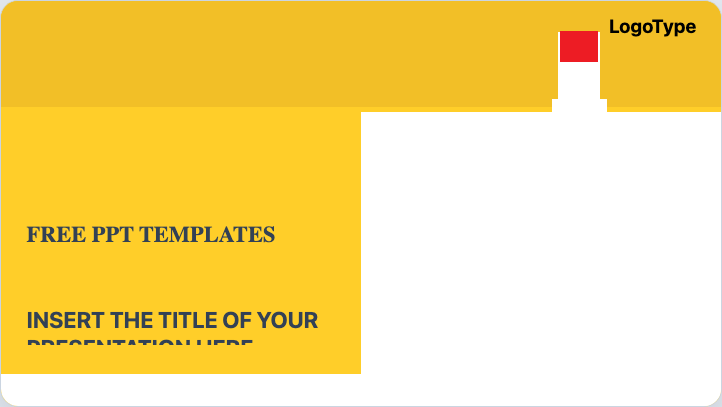
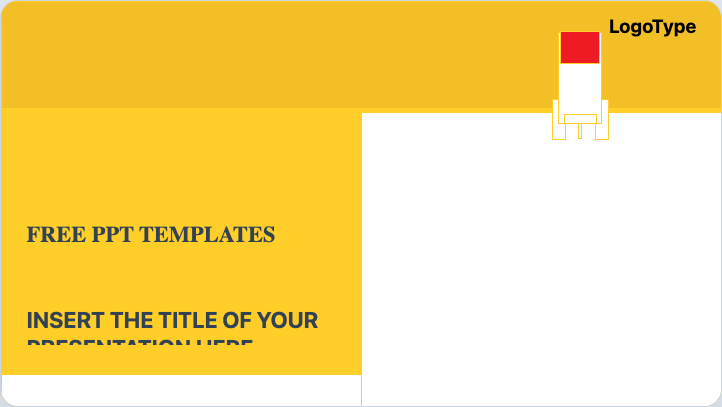
Fallback PPTX line styling to shape-style references for template geometry
Several of the remaining sample mismatches came from decorative arcs and border
geometry whose strokes are defined through PowerPoint style references rather
than explicit line fills on each shape. This stage teaches the parser to fall
back to `p:style` line and fill references when direct shape styling is absent,
then refreshes the screenshot evidence so the corpus report reflects the richer
template geometry that now survives into rendering.

Constraint: Template-driven decks often encode stroke and fill colors via style references, so the parser must preserve those signals before viewer heuristics can help
Constraint: Screenshot artifacts must be refreshed after parser styling changes to keep the corpus score report honest
Rejected: Ignore style-reference fallback and keep only direct shape styling | decorative geometry in the sample corpus would stay too sparse
Rejected: Treat the remaining low-score slides as acceptable without new scene data | they still point to missing template semantics, not just polish
Confidence: medium
Scope-risk: moderate
Reversibility: clean
Directive: Keep lifting template semantics into the PPTX parser when screenshot diffs point to missing geometry rather than bad layout heuristics
Tested: npx vitest run tests/pptx-shape-transform.test.ts tests/opc-and-parsers.test.ts; npm run typecheck; npm run lint; npm run build --workspace @ooxml/example-basic; npm run quality:ppt-sample-screenshots
[…]

Changed region(s): [[0.7618, 0.2654, 0.8532, 0.3538], [0.7618, 0.0885, 0.8532, 0.1769], [0.0, 0.914, 0.0305, 0.9435]]

diff --git a/packages/pptx/src/parser.ts b/packages/pptx/src/parser.ts
@@ -167,6 +167,7 @@ function parseShape(
   const placeholder = xmlChild<Record<string, unknown>>(nvPr, 'p:ph');
   const textNodes = findElementsByLocalName(shape, 't');
   const shapeProperties = xmlChild<Record<string, unknown>>(shape, 'p:spPr');
+  const style = xmlChild<Record<string, unknown>>(shape, 'p:style');
   const transform = applyTransformContext(parseTransform(shapeProperties), context);
 
   return {
@@ -177,8 +178,8 @@ function parseShape(
     placeholderIndex: xmlAttr(placeholder, 'idx') ?? undefined,
     shapeType: parseShapeType(shapeProperties),
     transform,
-    fill: parseFill(shapeProperties, relationships, theme),
-    line: parseLine(shapeProperties, theme),
+    fill: parseFill(shapeProperties, relationships, theme, style),
+    line: parseLine(shapeProperties, theme, style),
     textStyle: parseTextStyle(shape, theme)
   };
 }
@@ -191,6 +192,7 @@ function parsePicture(picture: Record<string, unknown>, relationships: ReturnTyp
   const relationshipId = xmlAttr(blip, 'r:embed');
   const target = relationshipId ? relationships.find((relationship) => relationship.id === relationshipId)?.resolvedTarget : undefined;
   const shapeProperties = xmlChild<Record<string, unknown>>(picture, 'p:spPr');
+  const style = xmlChild<Record<string, unknown>>(picture, 'p:style');
   const transform = applyTransformContext(parseTransform(shapeProperties), context);
 
   return {
@@ -199,8 +201,8 @@ function parsePicture(picture: Record<string, unknown>, relationships: ReturnTyp
     text: '',
     shapeType: 'picture',
     transform,
-    fill: parseFill(shapeProperties, relationships, theme),
-    line: parseLine(shapeProperties, theme),
+    fill: parseFill(shapeProperties, relationships, theme, style),
+    line: parseLine(shapeProperties, theme, style),
     media: {
       type: 'image',
       targetUri: target ?? undefined
@@ -457,7 +459,8 @@ function parseBackground(
 function parseFill(
   shapeProperties: Record<string, unknown> | undefined,
   relationships: ReturnType<typeof relationshipsFor>,
-  theme?: PresentationTheme
+  theme?: PresentationTheme,
+  styleNode?: Record<string, unknown>
 ): PresentationFill | undefined {
   if (!shapeProperties) {
     return undefined;
@@ -496,10 +499,20 @@ function parseFill(
     };
   }
 
+  const styleFill = xmlChild<Record<string, unknown>>(styleNode, 'a:fillRef');
+  const styleFillColor = resolveColor(styleFill, theme);
+  if (styleFillColor?.color) {
+    return {
+      kind: 'solid',
+      color: styleFillColor.color,
+      opacity: styleFillColor.opacity
+    };
+  }
+
   return undefined;
 }
 
-function parseLine(shapeProperties: Record<string, unknown> | undefined, theme?: PresentationTheme): PresentationLine | undefined {
+function parseLine(shapeProperties: Record<string, unknown> | undefined, theme?: PresentationTheme, styleNode?: Record<string, unknown>): PresentationLine | undefined {
   const line = xmlChild<Record<string, unknown>>(shapeProperties, 'a:ln');
   if (!line) {
     return undefined;
@@ -514,11 +527,13 @@ function parseLine(shapeProperties: Record<string, unknown> | undefined, theme?:
 
   const solidFill = xmlChild<Record<string, unknown>>(line, 'a:solidFill');
   const resolved = solidFill ? resolveColor(solidFill, theme) : undefined;
+  const styleLine = xmlChild<Record<string, unknown>>(styleNode, 'a:lnRef');
+  const styleResolved = styleLine ? resolveColor(styleLine, theme) : undefined;
   return {
     kind: 'solid',
-    color: resolved?.color,
-    opacity: resolved?.opacity,
-    width: (() => { const value = xmlAttr(line, 'w'); return value ? Number(value) : undefined; })()
+    color: resolved?.color ?? styleResolved?.color,
+    opacity: resolved?.opacity ?? styleResolved?.opacity,
+    width: (() => { const value = xmlAttr(line, 'w'); return value ? Number(value) : xmlAttr(styleLine, 'idx') ? Number(xmlAttr(styleLine, 'idx')) * 6350 : undefined; })()
   };
 }
 
